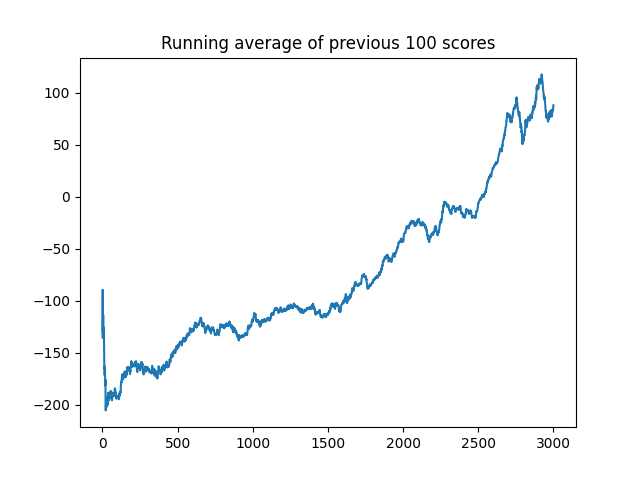
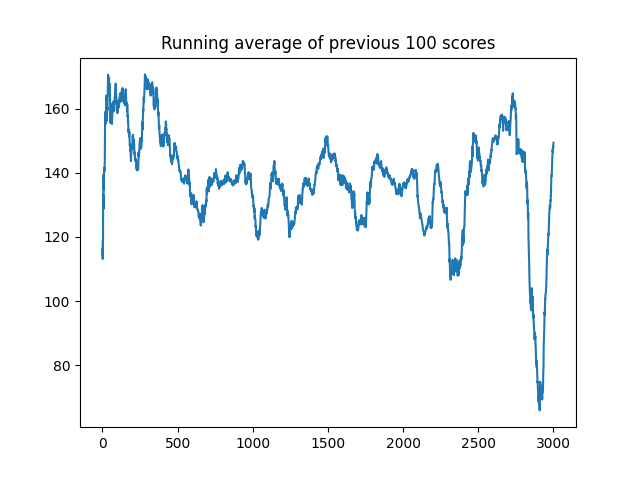
Train

diff --git a/20210209_Reinforce/main_lunar_lander_reinforce.py b/20210209_Reinforce/main_lunar_lander_reinforce.py
@@ -85,10 +85,10 @@ if __name__ == '__main__':
         agent.policy.load_state_dict(torch.load(MODEL_PATH))
 
     # Train the model
-    # scores = train(env, agent, n_games)
-    # plot_learning_curve(scores, agent, n_games)
+    scores = train(env, agent, n_games)
+    plot_learning_curve(scores, agent, n_games)
 
     # Play with the trained model
-    # input("Play?")
+    input("Play?")
     scores = play(env, agent, n_games=20)
     print(f"Scores mean: {np.mean(scores)}")
